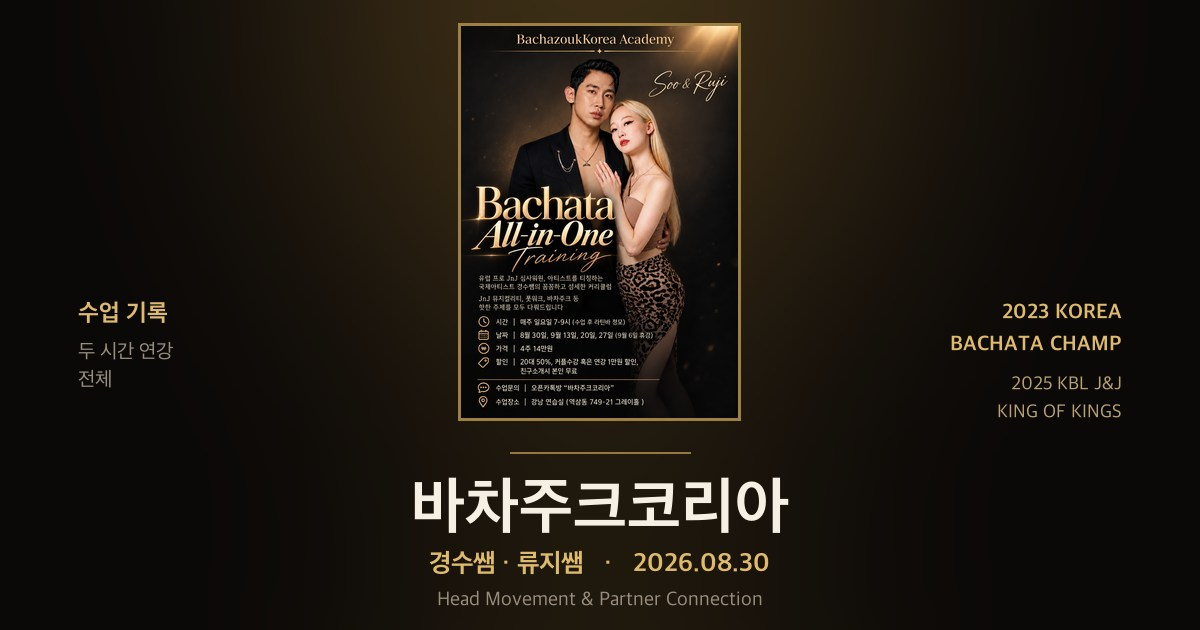
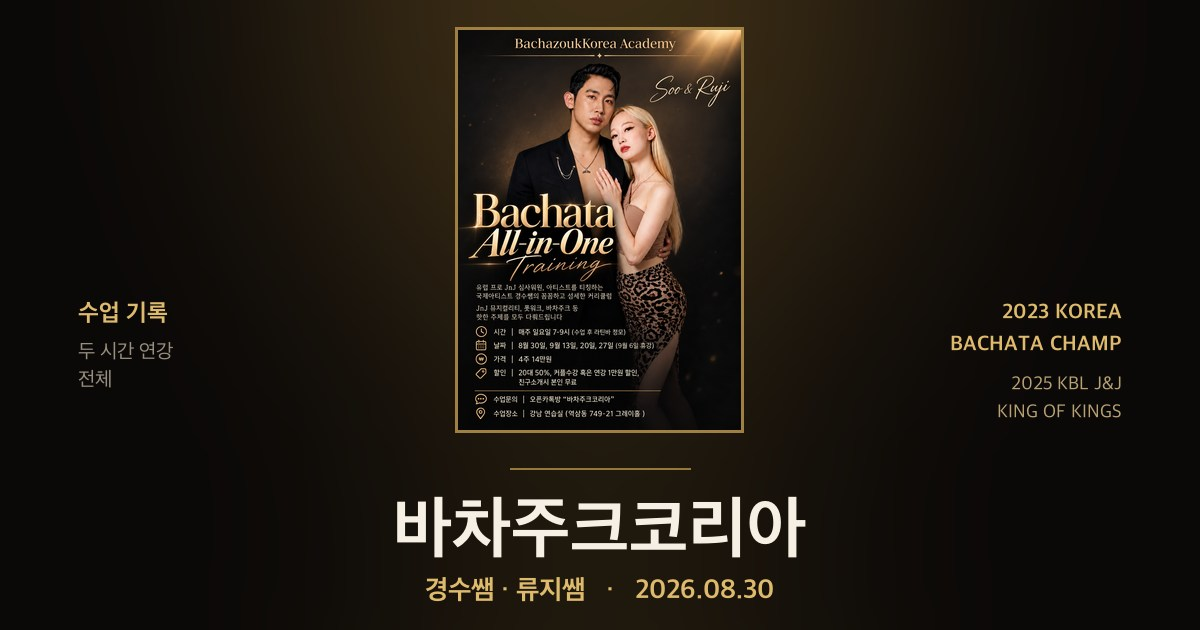
링크 미리보기에서 '헤드 무브먼트' 제거
카드의 영어 부제(Head Movement & Partner Connection)를 빼고, 웹 배포본의
브라우저 탭 제목도 '바차주크코리아'로 바꿨다. 미리보기에 뜨는 글자는
이제 바차주크코리아 / 경수쌤·류지쌤 / 날짜뿐이다.

Changed region(s): [[0.3083, 0.0302, 0.6783, 0.9651]]

diff --git a/index.html b/index.html
@@ -21,7 +21,7 @@
 <meta name="twitter:description" content="2026.08.30 Bachata All-in-One Training 1주차 전체 기록">
 <meta name="twitter:image" content="https://bachata-note.vercel.app/og.jpg">
 <style>html,body{margin:0;padding:0}img{max-width:100%}[hidden]{display:none!important}</style>
-<title>헤드 무브먼트 아카이브</title>
+<title>바차주크코리아</title>
 <link rel="preconnect" href="https://fonts.googleapis.com">
 <link rel="preconnect" href="https://fonts.gstatic.com" crossorigin>
 <link rel="stylesheet" href="https://fonts.googleapis.com/css2?family=Cormorant+Garamond:ital,wght@0,300;0,500;0,600;1,300;1,600&family=Nanum+Myeongjo:wght@400;700;800&family=IBM+Plex+Sans+KR:wght@200;300;400;500;600&family=IBM+Plex+Mono:wght@400;500;600&display=swap">
